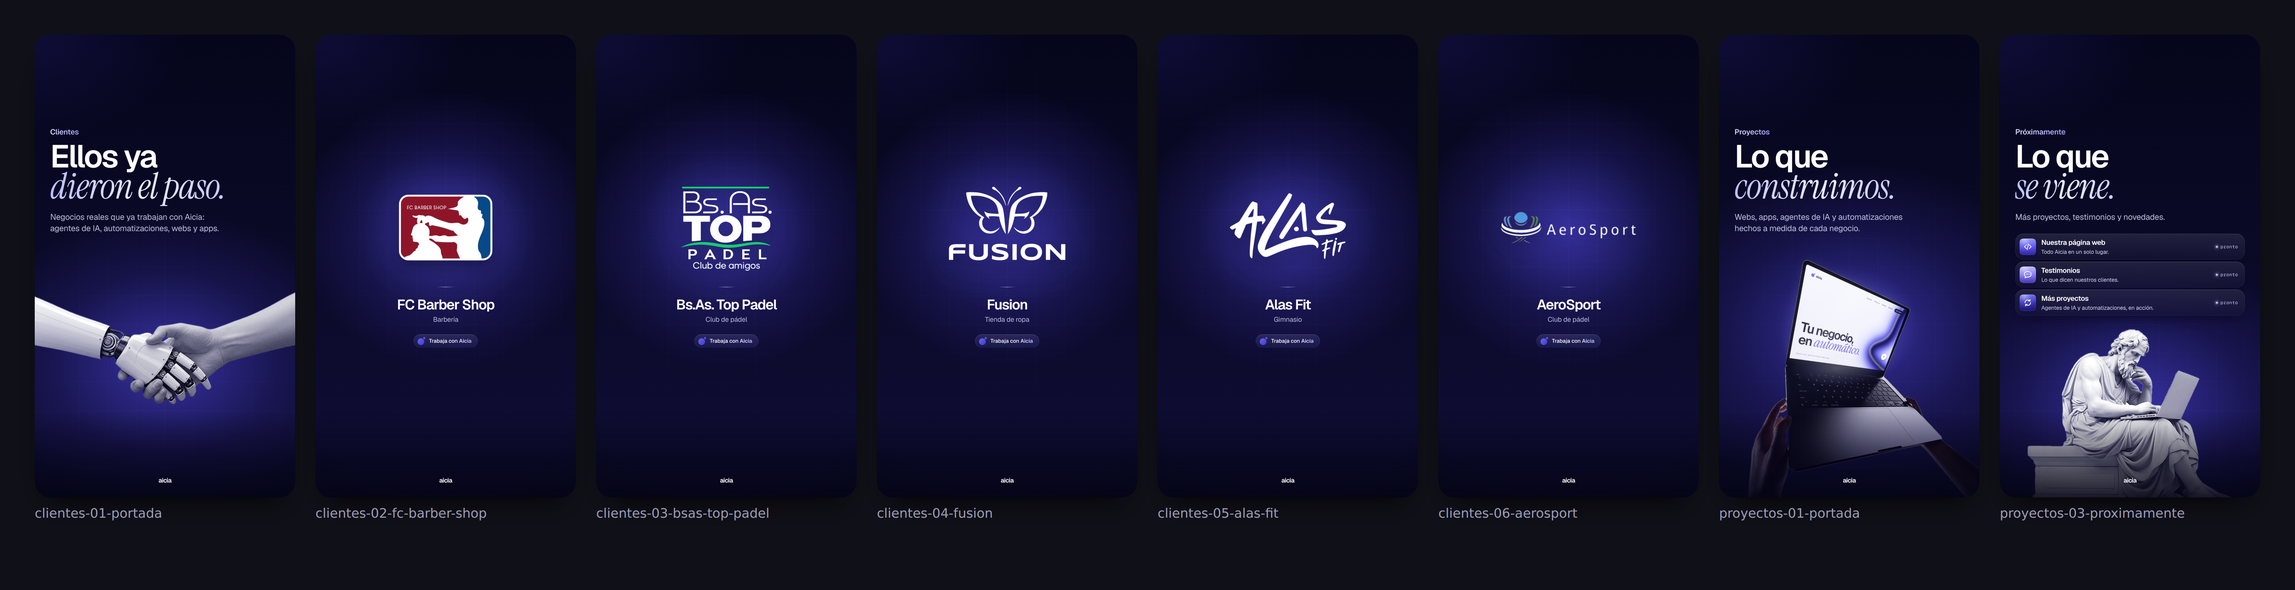
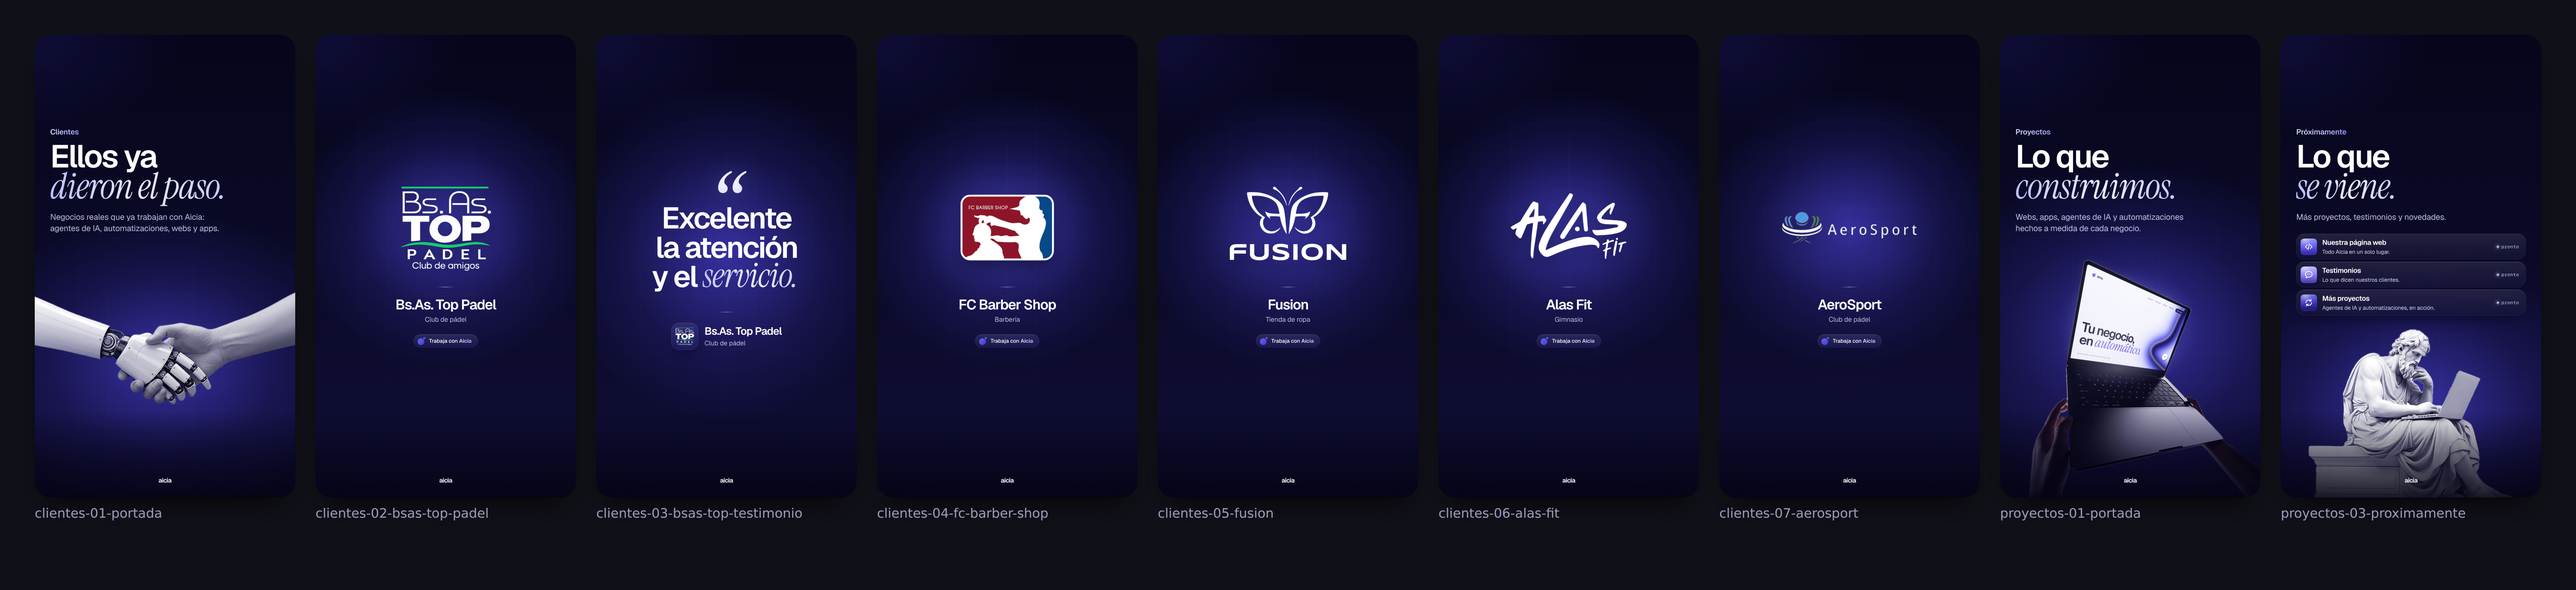
Clientes: testimonio de Bs.As. Top después de su tarjeta
Nueva historia aicia-clientes-03-bsas-top-testimonio.png con la frase textual
"Excelente la atención y el servicio.", atribuida al club. La destacada queda:
portada → Bs.As. Top → testimonio → FC Barber Shop → Fusion → Alas Fit → AeroSport
(los archivos se renumeraron en ese orden).

Claude-Session: https://claude.ai/code/session_01SBSshHAET78NiDLxszLW9R

diff --git a/historias/clientes-proyectos/historias.html b/historias/clientes-proyectos/historias.html
@@ -239,6 +239,19 @@ svg.app .gl .f{fill:#fff;stroke:none}
 .card .pill .lg-i{width:34px;height:34px;margin-left:-6px;flex:none}
 .card .pill b{font-weight:600;background:linear-gradient(90deg,#E4E5FF,#B9BBFF);-webkit-background-clip:text;background-clip:text;-webkit-text-fill-color:transparent}
 
+/* Testimonio: la frase es el titular, centrada como las tarjetas de clientes */
+.testi{--gx:50%;--gy:47%;--gw:1000px;--gh:1000px}
+.testi .q-mark{left:0;right:0;top:546px;z-index:5;text-align:center;font-family:"Instrument Serif",serif;font-style:italic;font-weight:400;font-size:400px;line-height:1;
+  background:linear-gradient(180deg,#ECEDFF 20%,#9A9BFA 70%);-webkit-background-clip:text;background-clip:text;-webkit-text-fill-color:transparent;filter:drop-shadow(0 0 40px rgba(129,132,255,.35))}
+.testi .q-text{left:0;right:0;top:700px;text-align:center;font-size:124px}
+.testi .q-text .serif{font-size:142px}
+.testi .rule{left:50%;top:1150px;width:72px;height:2px;margin-left:-36px;border-radius:2px;background:linear-gradient(90deg,transparent,rgba(199,201,255,.7),transparent);z-index:5}
+.testi .who{left:0;right:0;top:1196px;display:flex;justify-content:center;align-items:center;gap:26px}
+.testi .who .lg{width:112px;height:112px;border-radius:32px;display:grid;place-items:center}
+.testi .who .lg img{width:80px}
+.testi .who b{display:block;font-size:44px;font-weight:600;letter-spacing:-0.035em;line-height:1.05;color:#fff}
+.testi .who span{display:block;margin-top:8px;font-size:27px;color:var(--t2)}
+
 /* Proyectos · Próximamente: lo que se viene, en tarjetas de vidrio (sin fechas ni números inventados) */
 .p3{--gx:52%;--gy:80%;--gw:1150px;--gh:900px}
 .p3 .eyebrow{left:var(--m);top:384px}
@@ -358,22 +371,8 @@ svg.app .gl .f{fill:#fff;stroke:none}
   <div class="basefade"></div><div class="sig">aicia</div>
 </section>
 
-<!-- ======================= CLIENTES · FC BARBER SHOP ======================= -->
-<section class="story card" data-file="aicia-clientes-02-fc-barber-shop.png">
-  <div class="stage"></div><div class="grid"></div>
-  <img class="logo" src="assets/logo-fc-barber.png" alt="FC Barber Shop" style="top:657px;width:400px">
-  <div class="rule" style="top:1046px"></div>
-  <div class="center tx" style="top:1092px">
-    <div class="name">FC Barber Shop</div>
-    <div class="kind">Barbería</div>
-    <div class="pill glass"><svg class="lg-i" aria-label="Aicia"><use href="#logo"/></svg><span>Trabaja con <b>Aicia</b></span></div>
-  </div>
-  <div class="vignette"></div><div class="grain"></div>
-  <div class="basefade"></div><div class="sig">aicia</div>
-</section>
-
 <!-- ======================= CLIENTES · BS.AS. TOP PADEL ======================= -->
-<section class="story card" data-file="aicia-clientes-03-bsas-top-padel.png">
+<section class="story card" data-file="aicia-clientes-02-bsas-top-padel.png">
   <div class="stage"></div><div class="grid"></div>
   <img class="logo" src="assets/logo-bsas-top-blanco.png" alt="Bs.As. Top Padel" style="top:628px;width:380px">
   <div class="rule" style="top:1046px"></div>
@@ -386,8 +385,35 @@ svg.app .gl .f{fill:#fff;stroke:none}
   <div class="basefade"></div><div class="sig">aicia</div>
 </section>
 
+<!-- ======================= CLIENTES · BS.AS. TOP PADEL · TESTIMONIO ======================= -->
+<!-- Va justo después de la tarjeta del club. La frase es textual (la pasó Guille) y se atribuye al club:
+     sin nombre de persona, sin estrellas ni puntajes inventados. -->
+<section class="story testi" data-file="aicia-clientes-03-bsas-top-testimonio.png">
+  <div class="stage"></div><div class="grid"></div>
+  <div class="q-mark" aria-hidden="true">“</div>
+  <h1 class="title tx q-text">Excelente<br>la atención<br>y el <span class="serif">servicio.</span></h1>
+  <div class="rule"></div>
+  <div class="who tx"><div class="lg glass"><img src="assets/logo-bsas-top-blanco.png" alt=""></div><div><b>Bs.As. Top Padel</b><span>Club de pádel</span></div></div>
+  <div class="vignette"></div><div class="grain"></div>
+  <div class="basefade"></div><div class="sig">aicia</div>
+</section>
+
+<!-- ======================= CLIENTES · FC BARBER SHOP ======================= -->
+<section class="story card" data-file="aicia-clientes-04-fc-barber-shop.png">
+  <div class="stage"></div><div class="grid"></div>
+  <img class="logo" src="assets/logo-fc-barber.png" alt="FC Barber Shop" style="top:657px;width:400px">
+  <div class="rule" style="top:1046px"></div>
+  <div class="center tx" style="top:1092px">
+    <div class="name">FC Barber Shop</div>
+    <div class="kind">Barbería</div>
+    <div class="pill glass"><svg class="lg-i" aria-label="Aicia"><use href="#logo"/></svg><span>Trabaja con <b>Aicia</b></span></div>
+  </div>
+  <div class="vignette"></div><div class="grain"></div>
+  <div class="basefade"></div><div class="sig">aicia</div>
+</section>
+
 <!-- ======================= CLIENTES · FUSION ======================= -->
-<section class="story card" data-file="aicia-clientes-04-fusion.png">
+<section class="story card" data-file="aicia-clientes-05-fusion.png">
   <div class="stage"></div><div class="grid"></div>
   <img class="logo" src="assets/logo-fusion-blanco.png" alt="Fusion" style="top:627px;width:490px">
   <div class="rule" style="top:1046px"></div>
@@ -401,7 +427,7 @@ svg.app .gl .f{fill:#fff;stroke:none}
 </section>
 
 <!-- ======================= CLIENTES · ALAS FIT ======================= -->
-<section class="story card" data-file="aicia-clientes-05-alas-fit.png">
+<section class="story card" data-file="aicia-clientes-06-alas-fit.png">
   <div class="stage"></div><div class="grid"></div>
   <img class="logo" src="assets/logo-alas-fit-blanco.png" alt="Alas Fit" style="top:653px;width:490px">
   <div class="rule" style="top:1046px"></div>
@@ -415,7 +441,7 @@ svg.app .gl .f{fill:#fff;stroke:none}
 </section>
 
 <!-- ======================= CLIENTES · AEROSPORT ======================= -->
-<section class="story card" data-file="aicia-clientes-06-aerosport.png">
+<section class="story card" data-file="aicia-clientes-07-aerosport.png">
   <div class="stage"></div><div class="grid"></div>
   <img class="logo" src="assets/logo-aerosport.png" alt="AeroSport" style="top:725px;width:580px">
   <div class="rule" style="top:1046px"></div>

diff --git a/CLAUDE.md b/CLAUDE.md
@@ -19,7 +19,7 @@ Hay 3 destacadas, como máximo: **Aicia**, **Clientes** y **Proyectos**.
 | Carpeta | Qué es | Estado |
 |---|---|---|
 | `historias/destacada-aicia/` | 5 historias "¿Qué es Aicia?" (`destacada.html`) | **Final, aprobada** |
-| `historias/clientes-proyectos/` | Portada de Clientes + 5 tarjetas de clientes + Proyectos: portada, video de Bs.As. Top y "Próximamente" (`historias.html`, `video-bsas.html`) | Clientes **final**. Proyectos: portada y video **finales**, "Próximamente" esperando el OK de Guille |
+| `historias/clientes-proyectos/` | Portada de Clientes + 5 tarjetas de clientes + testimonio de Bs.As. Top + Proyectos: portada, video de Bs.As. Top y "Próximamente" (`historias.html`, `video-bsas.html`) | Clientes **final**; testimonio esperando el OK de Guille. Proyectos: portada y video **finales**, "Próximamente" esperando el OK de Guille |
 | `historias/portadas-destacadas/` | Íconos de portada de las 3 destacadas (`portadas.html`) | **Final, aprobada** |
 | `historias/que-es-aicia/` | 6 versiones viejas | No se usan, son solo referencia |
 | `historias/logo-perfil/` | Logo de Aicia para la foto de perfil, 1080×1080 (`logo.html`) | Círculos en el índigo de los íconos de las historias (y variante lavanda) sobre el fondo de las historias, esperando el OK de Guille |
@@ -71,6 +71,13 @@ node exportar-instagram.mjs            # TODO listo para subir → historias/ins
 - Portada: "Ellos ya *dieron el paso.*" sobre el apretón robot-humano en blanco y negro (`assets/apreton-robot-humano.png`).
 - Los textos de clientes tienen que ser **genéricos**: a un cliente le pudo haber hecho un agente de IA, una automatización, una web o una app. No hay que afirmar qué servicio fue.
 - Tarjeta: logo → línea → nombre → rubro → cápsula "Trabaja con **Aicia**" con el logo real de Aicia.
+- **Orden** (pedido de Guille, el número del archivo es el orden de subida): 01 portada → 02 Bs.As. Top Padel → **03 testimonio de Bs.As. Top** → 04 FC Barber Shop → 05 Fusion → 06 Alas Fit → 07 AeroSport.
+- **Testimonio de Bs.As. Top** (`aicia-clientes-03-bsas-top-testimonio.png`, sección `.testi`): va justo después de la tarjeta del club. Centrado como las tarjetas:
+  - comillas grandes en Instrument Serif lavanda;
+  - la frase textual que pasó Guille como titular: "Excelente la atención y el *servicio.*";
+  - línea, y abajo el logo del club en un cuadro de vidrio con "Bs.As. Top Padel" / "Club de pádel".
+  - Se atribuye al club: sin nombre de persona, sin estrellas ni puntajes (no los dio). Sin etiqueta arriba: las comillas ya dicen que es un testimonio.
+  - Para sumar otro testimonio: duplicá la sección `.testi`, cambiá la frase (textual, la que pase Guille), el logo y el `data-file`, y ubicala después de la tarjeta de ese cliente.
 
 | Cliente | Rubro | Estilo del logo |
 |---|---|---|
@@ -143,7 +150,7 @@ node exportar-instagram.mjs            # TODO listo para subir → historias/ins
 - Carpetas, en orden:
   1. `1-foto-de-perfil`: el logo, 1080×1080.
   2. `2-destacada-aicia`: la portada de la destacada (1080×1080) y las 5 historias.
-  3. `3-destacada-clientes`: la portada y las 6 historias.
+  3. `3-destacada-clientes`: la portada y las 7 historias (con el testimonio de Bs.As. Top).
   4. `4-destacada-proyectos`: la portada, la historia de portada, el MP4 de Bs.As. Top (se copia tal cual) y "Próximamente".
   5. `5-publicaciones`: las 3 azules, 1080×1350.
 
